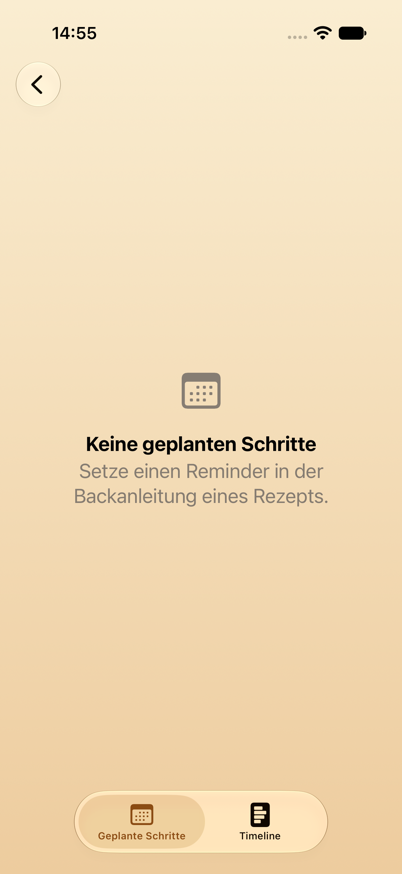
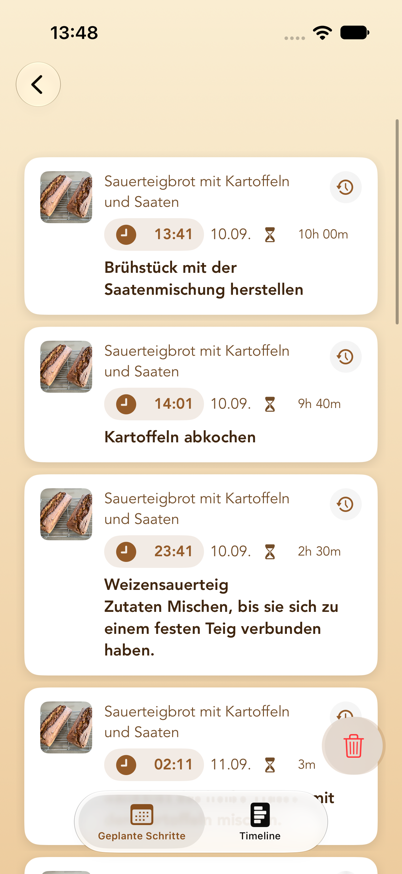
Retake the manual's screenshots with the new name and with real data
All eight shots showed the old name, and two of them showed nothing at
all: the scheduled steps and the timeline were captured on an empty
install, so the chapter that explains the planning illustrated a blank
screen. They now show a sourdough bread planned across two days — the
cards carry the recipe picture, start time, duration and step text, and
the timeline groups them by day.

The bake view also gained something worth seeing: the recipe used has two
components prepared in parallel, so the table shows steps 1.1 and 1.2,
which is exactly the numbering the chapter on work steps describes.

eigene-rezepte.png existed but was referenced nowhere; chapter 6 now
shows it.

diff --git a/docs/Benutzerhandbuch.md b/docs/Benutzerhandbuch.md
@@ -200,6 +200,8 @@ Bist Du als Administrator angemeldet (siehe [Kapitel 14](#14-einstellungen)), er
 
 Hier liegen alle Rezepte, die lokal auf dem Gerät gespeichert sind: selbst angelegte und aus der Datenbank übernommene.
 
+![Liste der eigenen Rezepte mit Bild, Name und Tags](images/eigene-rezepte.png)
+
 ### Suchen und filtern
 
 - **Suchfeld** mit Umschaltung **Name / Tags**.
@@ -427,7 +429,7 @@ Wurde diese Kopie später gelöscht (durch Dich oder die Moderation), erkennt di
 
 **Hauptmenü → Geplante Schritte.** Hier stehen alle Backschritte aus allen Rezepten, für die Du Reminder gesetzt hast – chronologisch, rezeptübergreifend. Unten wechselst Du zwischen zwei Ansichten.
 
-![Leere Listenansicht der geplanten Schritte](images/geplante-schritte-liste.png)
+![Geplante Schritte als Liste: je Karte Rezeptbild, Startzeit, Dauer und Schritttext](images/geplante-schritte-liste.png)
 
 *Die Listenansicht zeigt im Leerzustand zugleich, wo neue Planungen angelegt werden.*
 
@@ -453,7 +455,7 @@ Die zugehörigen Erinnerungen werden automatisch mitverschoben. Liegt der neue Z
 
 Dieselben Schritte als senkrechte Zeitachse. Links steht der Zeitstempel – beim ersten Schritt eines Tages mit Wochentag und Datum, bei den folgenden nur die Uhrzeit. Punkte und Verbindungslinien machen sichtbar, welche Schritte zusammen an einem Tag liegen und wo größere Pausen sind. Praktisch für den Überblick über eine mehrtägige Teigführung.
 
-![Leere Timeline-Ansicht der geplanten Schritte](images/geplante-schritte-timeline.png)
+![Geplante Schritte als Timeline: Startzeiten auf einer senkrechten Achse, nach Tagen gruppiert](images/geplante-schritte-timeline.png)
 
 *Über den unteren Tab wechselst Du zwischen Liste und Timeline.*
 
